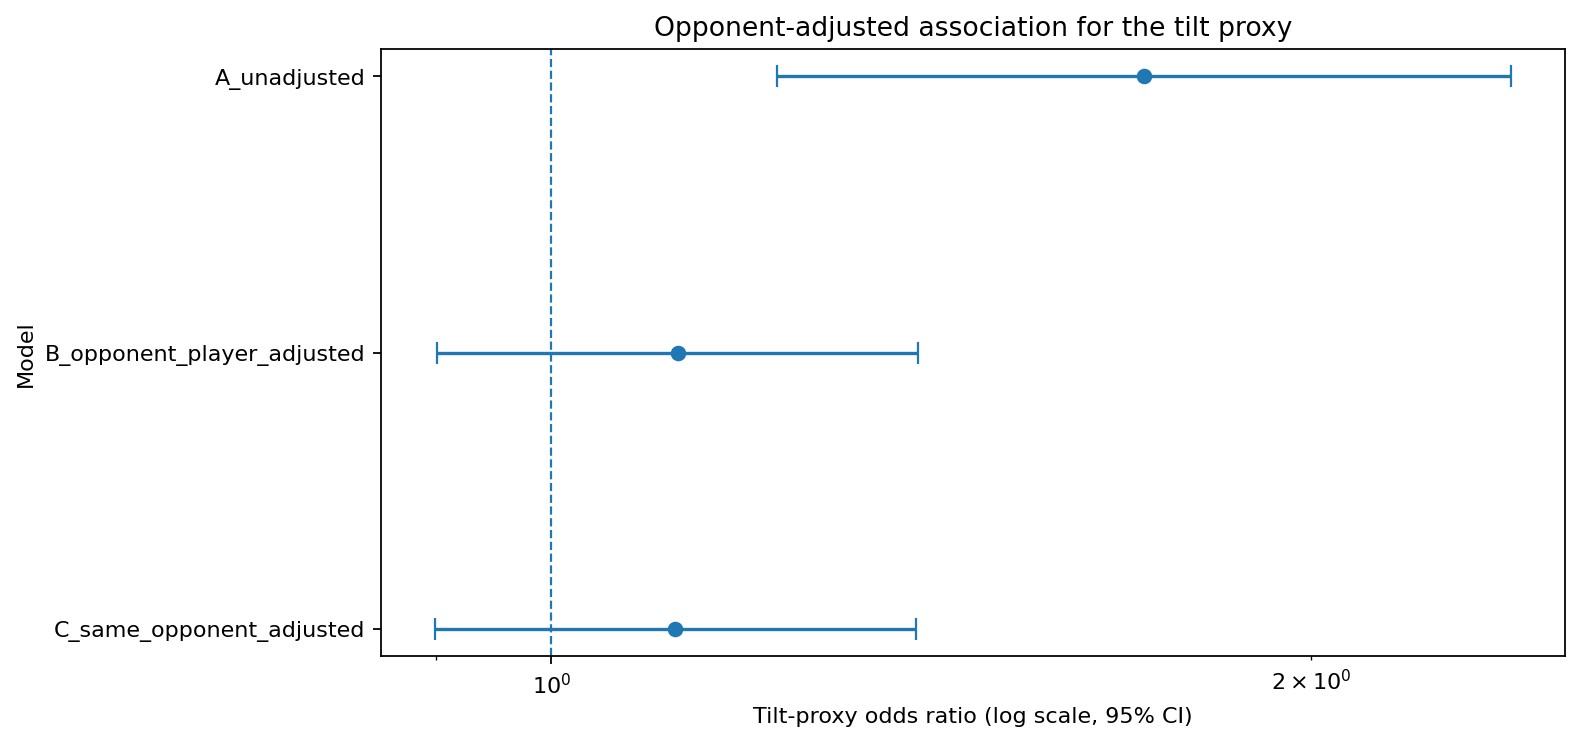
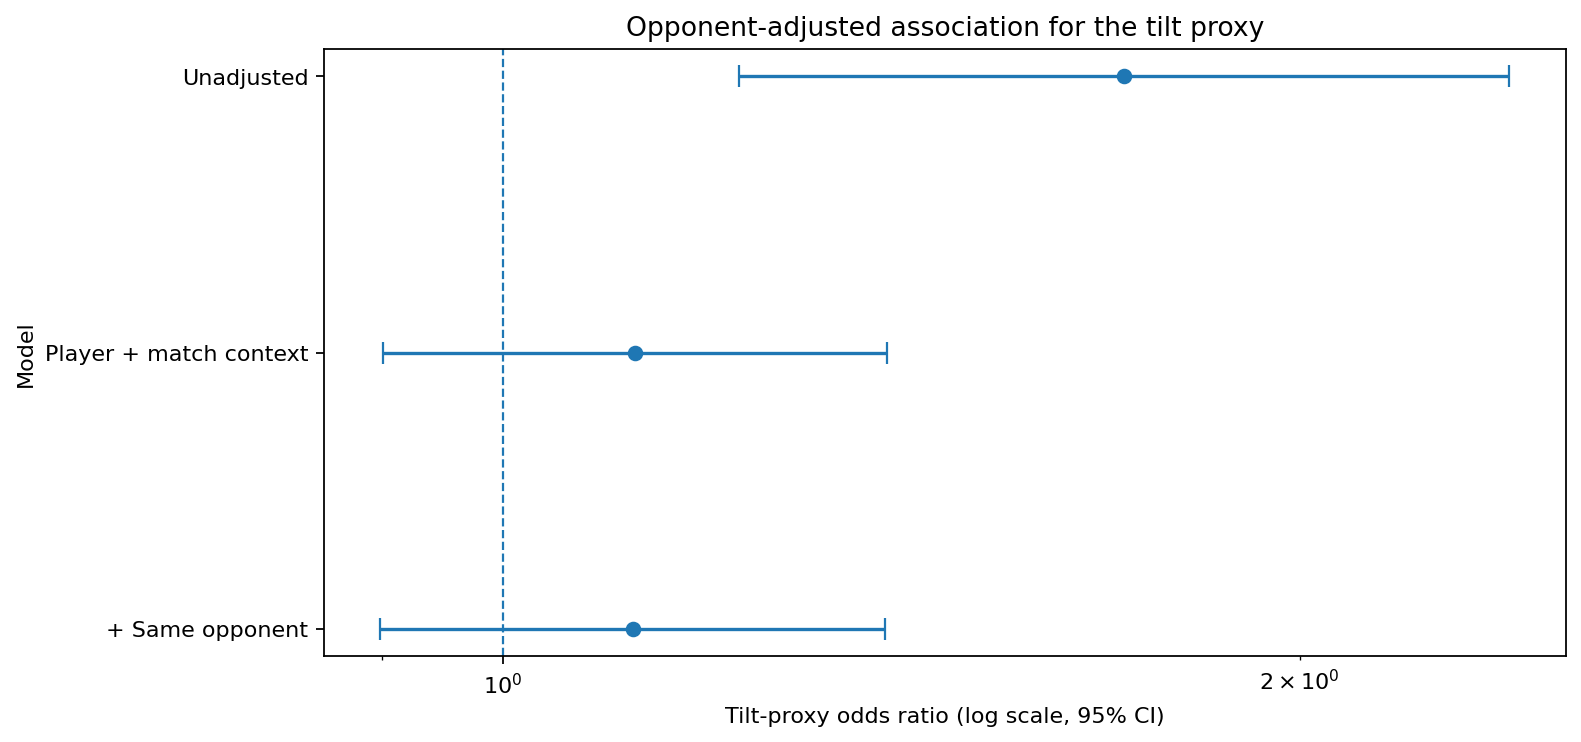
fix: improve opponent-adjusted plot labels

diff --git a/src/v13.py b/src/v13.py
@@ -298,8 +298,13 @@ def fit_opponent_adjusted_models(
     """Fit three logistic models with player-clustered robust standard errors."""
     model_specs = {
         "A_unadjusted": "loss ~ tilt_proxy_int",
-        "B_opponent_player_adjusted": "loss ~ tilt_proxy_int + rating_diff + color_black + C(player_id)",
-        "C_same_opponent_adjusted": "loss ~ tilt_proxy_int + rating_diff + color_black + same_opponent + C(player_id)",
+        "B_opponent_player_adjusted": (
+            "loss ~ tilt_proxy_int + rating_diff + color_black + C(player_id)"
+        ),
+        "C_same_opponent_adjusted": (
+            "loss ~ tilt_proxy_int + rating_diff + color_black "
+            "+ same_opponent + C(player_id)"
+        ),
     }
     summary_rows: list[dict[str, Any]] = []
     coefficient_rows: list[dict[str, Any]] = []
@@ -401,7 +406,13 @@ def plot_opponent_adjusted_effect(summary: pd.DataFrame, output_path: Path) -> N
     fig, ax = plt.subplots(figsize=(10, 4.8))
     ax.errorbar(x, y, xerr=[x - low, high - x], fmt="o", capsize=5)
     ax.axvline(1.0, linewidth=1, linestyle="--")
-    ax.set_yticks(y, plot_df["model"].astype(str).tolist())
+    display_labels = {
+        "A_unadjusted": "Unadjusted",
+        "B_opponent_player_adjusted": "Player + match context",
+        "C_same_opponent_adjusted": "+ Same opponent",
+    }
+    labels = plot_df["model"].map(display_labels).fillna(plot_df["model"]).tolist()
+    ax.set_yticks(y, labels)
     ax.set_xscale("log")
     ax.set_xlabel("Tilt-proxy odds ratio (log scale, 95% CI)")
     ax.set_ylabel("Model")
